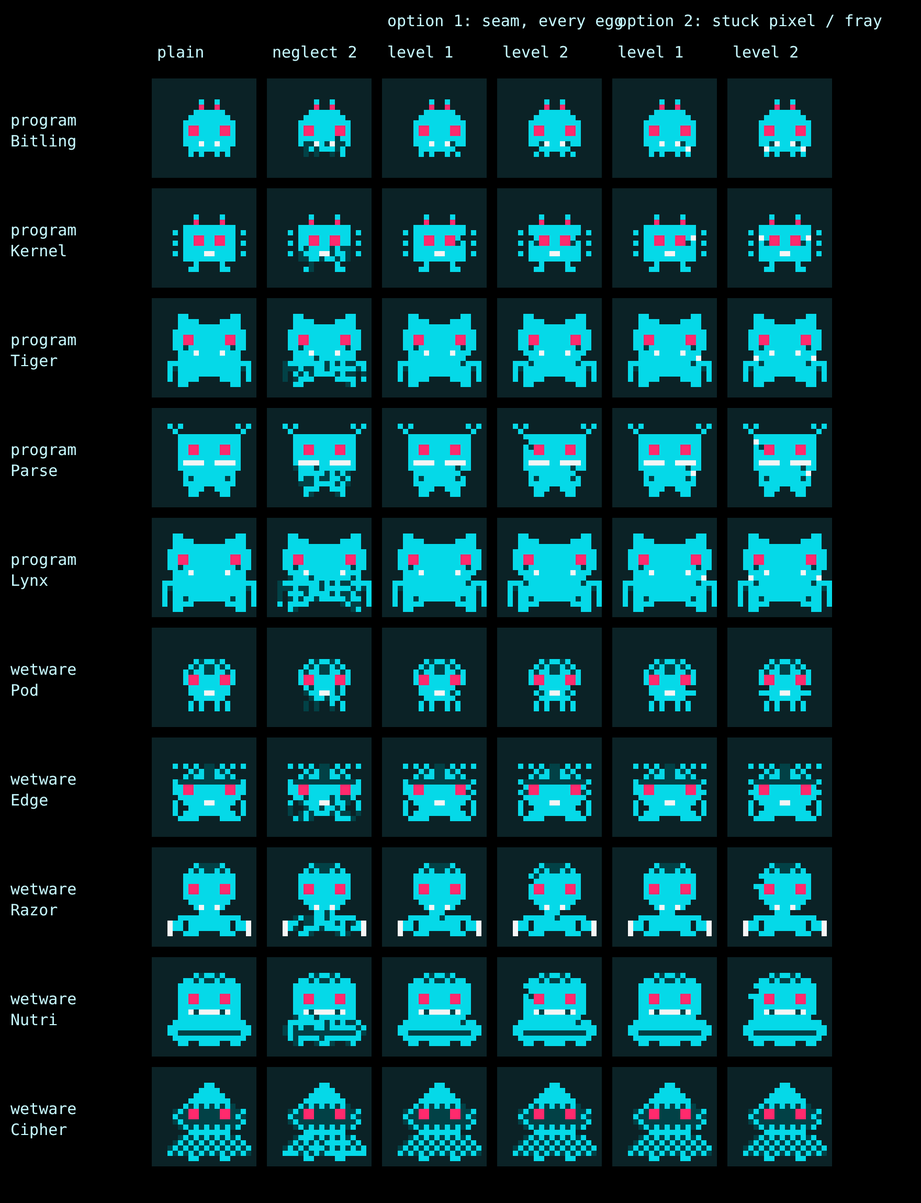
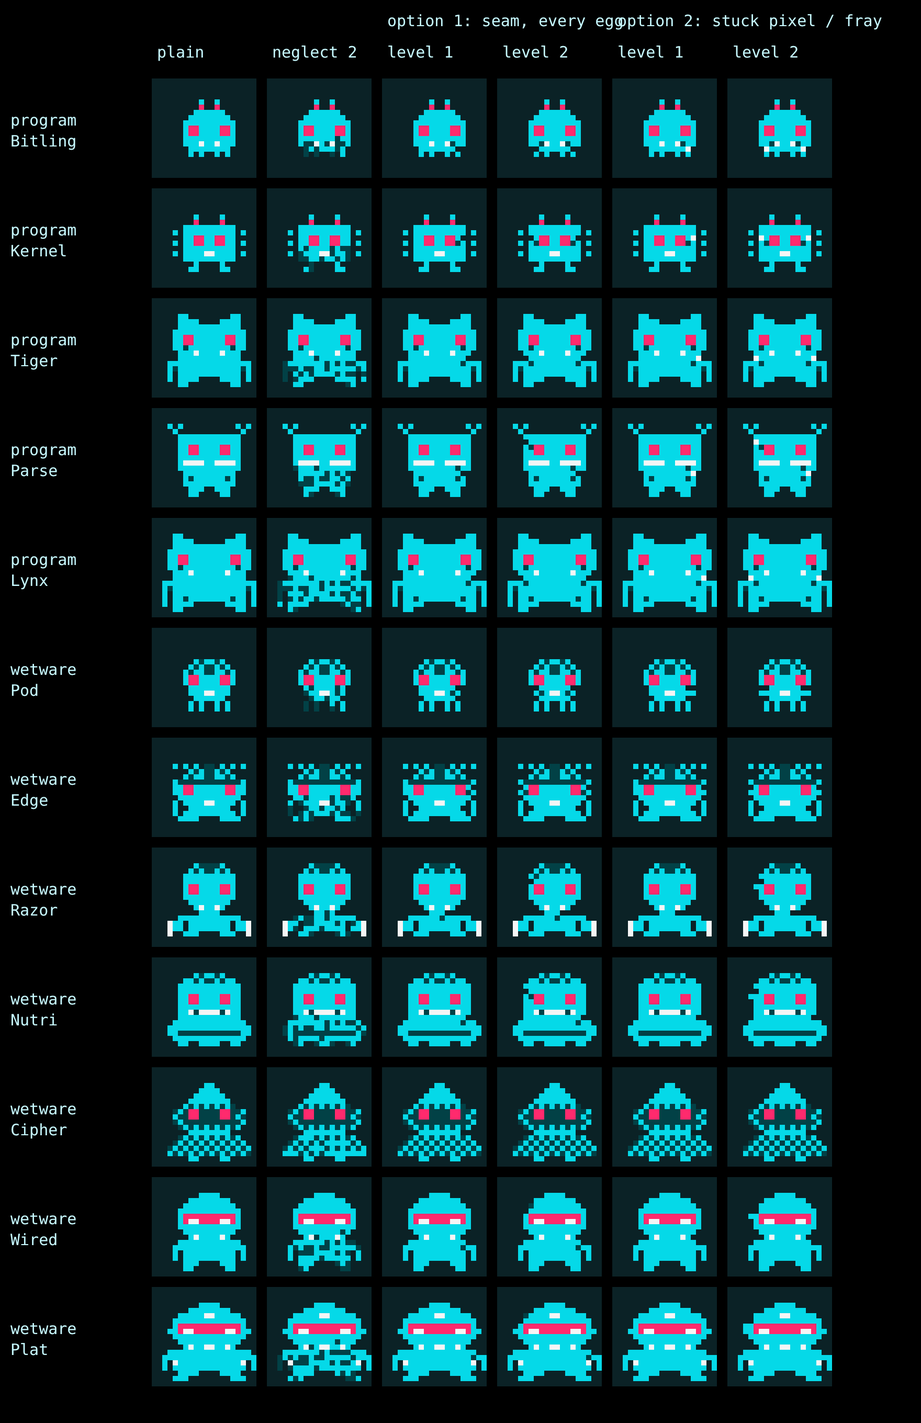
Netling 2.0: the seam is the strain mark on every egg (decided); Wired and Plat pinned by hand
seams.js places the seam on all 66 forms; Wired and its elder Plat have no straight wall the rule accepts, so
OVERRIDES pins them; the hidden forms the rule misses (Shell, Blank, Cipher) show none. A test covers every
Program and Wetware form; the review render adds Wired and Plat. Docs record the decision.

Claude-Session: https://claude.ai/code/session_01Cs8Tn62A5tSs3mb1RKkHnQ

diff --git a/prototype/netling2/seams.test.js b/prototype/netling2/seams.test.js
@@ -3,6 +3,8 @@ import { test } from 'node:test';
 import assert from 'node:assert/strict';
 import './ready.js'; // first: registers the forms before src/sim.js can load src/accessories.js (see ready.js)
 import { forms } from './models.js';
+import { programForms } from './program-models.js';
+import { wetwareForms } from './wetware-models.js';
 import { placeSeams, seams, seamCells } from './seams.js';
 import { METRONOME_ART, METRONOME_SIZE, metronomeFrame } from './metronome-art.js';
 import { metronome } from './metronome.js';
@@ -60,4 +62,19 @@ test('the Metronome art: three 5x8 frames, the case fixed, only the rod and weig
   }
   assert.ok(METRONOME_ART[-1][0].startsWith('o') && METRONOME_ART[1][0].endsWith('o'), 'left is left, right is right');
   for (const level of [-2, -1, 0, 1, 2]) for (const time of [0, 1234, 7000, 99999]) assert.ok(metronomeFrame(metronome({ level, time }).pos), `level ${level}`);
+});
+
+test('the strain mark is the seam on every egg: every Program and Wetware form gets two seams except the hidden forms the rule misses', () => {
+  const allowedMissing = new Set(['programTeenHidden', 'wetwareAdultHidden', 'wetwareElderHidden']);
+  for (const f of [...Object.values(programForms()), ...Object.values(wetwareForms())]) {
+    const [s1, s2] = placeSeams(f);
+    if (allowedMissing.has(f.id)) continue;
+    assert.ok(s1 && s2, `${f.id}: two seams`);
+    for (const s of [s1, s2]) {
+      assert.equal(f.a[s.cut[1]][s.cut[0]], '#', `${f.id}: the cut is a body cell`);
+      assert.equal(f.a[s.dim[1]][s.dim[0]], '#', `${f.id}: the dim cell is a body cell`);
+      assert.equal(f.a[s.cut[1]], f.b[s.cut[1]], `${f.id}: the cut row is the same in both frames`);
+      assert.equal(f.a[s.dim[1]], f.b[s.dim[1]], `${f.id}: the dim row is the same in both frames`);
+    }
+  }
 });

diff --git a/prototype/netling2/seams.js b/prototype/netling2/seams.js
@@ -1,4 +1,4 @@
-// Iron's wear seams (docs/NETLING_2_CARE_DRAFTS.md, Iron wear): a small static seam on one edge of the sprite once wear passes the line,
+// Wear and strain seams (docs/NETLING_2_CARE_DRAFTS.md, Iron wear; and Overuse and owner strain: the same mark on every egg): a small static seam on one edge of the sprite once wear passes the line,
 // a second at heavy wear, and they go one at a time as wear fades. DRAFT for review, not decided art. Not shipped.
 //
 // A seam is a split in the casing: the outline cell is cut out ('.') and the body cell diagonally inward goes dim ('x'). Rust (neglect.js)
@@ -11,7 +11,14 @@
 //
 // seams(rows, cells) -> rows with those cells applied; SEAMS[id] = [seam1, seam2], each { cut: [x, y], dim: [x, y] }.
 
-export const OVERRIDES = {};
+// Strain marks use the seam on every egg (maintainer, 2026-10-09: Iron's wear, Program's and Wetware's strain alike). Wired and its elder Plat have
+// no straight wall the rule accepts (a rounded head and torso, arms held apart), so they are pinned here: seam 1 on the right shoulder, seam 2
+// on the left of the head. The hidden forms the rule misses (Program's Shell, Wetware's Blank and Cipher) are left without seams (maintainer:
+// hidden forms may break the rules).
+export const OVERRIDES = {
+  wetwareAdultDodgeCorp: [{ cut: [13, 9], dim: [12, 10] }, { cut: [2, 3], dim: [3, 2] }],
+  wetwareElderDodgeCorp: [{ cut: [16, 9], dim: [15, 10] }, { cut: [2, 3], dim: [3, 2] }],
+};
 
 const plain = (rows, x, y) => rows[y]?.[x] === '#';
 

diff --git a/prototype/netling2/strain-marks-preview.html b/prototype/netling2/strain-marks-preview.html
@@ -17,7 +17,7 @@ import { drawSprite, paletteColors } from '../../src/sprites.js';
 import { PALETTES } from '../../src/sim.js';
 
 const LCD = '#0b2226';
-const PICK = { program: ['programBaby', 'programTeenCorp', 'programAdultBreachCorp', 'programAdultTuneCorp', 'programElderBreachCorp'], wetware: ['wetwareBaby', 'wetwareTeenStreet', 'wetwareAdultBreachCorp', 'wetwareAdultFeastCorp', 'wetwareElderHidden'] };
+const PICK = { program: ['programBaby', 'programTeenCorp', 'programAdultBreachCorp', 'programAdultTuneCorp', 'programElderBreachCorp'], wetware: ['wetwareBaby', 'wetwareTeenStreet', 'wetwareAdultBreachCorp', 'wetwareAdultFeastCorp', 'wetwareElderHidden', 'wetwareAdultDodgeCorp', 'wetwareElderDodgeCorp'] };
 const SETS = { program: programForms(), wetware: wetwareForms() };
 const COLS = ['plain', 'neglect 2', 'level 1', 'level 2', 'level 1', 'level 2'];
 

diff --git a/docs/NETLING_2_SPRITES.md b/docs/NETLING_2_SPRITES.md
@@ -6,7 +6,7 @@ Read this first for any sprite work. It is the current state only. The log of ev
 
 - All three eggs have all 22 forms drawn, in `prototype/netling2/` (not shipped, not in `sw.js`, not in `npm test`): baby, 3 teens (corp, street, hidden), 9 adults (4 roles x corp/street, plus hidden), 9 elders (one per adult).
 - Authored in full, not composed (maintainer). Everything is a first draft judged only from screenshots; **nothing has been seen on a device or in the real renderer.** `npm run smoke` has not been run.
-- Verified by machine: `npm test` 503 pass, `npm run proto:test` 334 pass (sprite, care and bug layers on all 66 forms, dead X mirroring, tell and temper pass, visit rules, gallery maker, voice, metronome, simulator and netrun rules, state marks, clinic node, state lines and hints, tutorial text), the unchanged 1.0 sprite audit on each egg (re-run after the elder redraws and the asleep marks: idle clips 47 to 44 and three close elder pairs gone; new flags, for review: Munch's elder against its adult 0.85 and Thrash's 0.82, above 1.0's 0.77 to 0.82, and a bandage on 1 of 9 mouth cells of Munch's elder; Next phase, item 4), review page and three galleries load in headless Chromium.
+- Verified by machine: `npm test` 503 pass, `npm run proto:test` 335 pass (sprite, care and bug layers on all 66 forms, dead X mirroring, tell and temper pass, visit rules, gallery maker, voice, metronome, simulator and netrun rules, state marks, clinic node, state lines and hints, tutorial text), the unchanged 1.0 sprite audit on each egg (re-run after the elder redraws and the asleep marks: idle clips 47 to 44 and three close elder pairs gone; new flags, for review: Munch's elder against its adult 0.85 and Thrash's 0.82, above 1.0's 0.77 to 0.82, and a bandage on 1 of 9 mouth cells of Munch's elder; Next phase, item 4), review page and three galleries load in headless Chromium.
 - **State marks (new, overlays, not sprite art):** Overclock wisps above the body, Overdrive sparks on rows h+1 and h+2 below the feet, Overlink dots three columns out at the sides, all one pixel, 400 ms steps, still in calm mode (`prototype/netling2/marks.js`, colors in `mark-colors.mjs`, preview `docs/netling2-prototypes/state-mark-colors.png`). They stay clear of Iron's drift (two columns) and settle (one row). Iron's wear seams (a small static mark on a sprite edge, one per wear level) are now **drafted for review** on all 22 Iron forms (`seams.js`; Next phase, item 3). Not seen on a real sprite or a device.
 - Wearables: all 41 1.0 wearables are placed by the game's own code on every form; none leave the screen (except the 1 px holologo clip that 1.0's own 15 row forms have) and none move between frames. Chipped's 41 were checked by eye this round (`docs/netling2-prototypes/shots/chipped-wearables.png`).
 
@@ -73,7 +73,7 @@ State: items 2 and 3 of the old list (care and bug effects, the temper pass) are
 1. **Open decision: Iron's unsteady drift and Program's strong hop are still masked by 1.0's idle.** The steady Iron hold (decided) fixed the steady end; the unsteady drift (one or two columns) is smaller than the wander and Program's hop (one row, 8% of slots) is lost the same way. Extend the hold, give the idle a jitter for unsteady netlings, or accept that the unsteady end is sometimes lost (unmeasured). See Temper pass notes below.
 2. **Wire the layers into a renderer.** Nothing of 2.0 is built in the real renderer: `idleClock`, `visitLayers`, `tellPose`, the neglect and bug layers, the state marks and the visit rule (marks are covered by `visitLayers` but nothing calls it for them yet) are pure functions with tests, drawn only by the review page and the galleries' `layers` section.
 2a. **Hidden elders' echo: done (decided, maintainer).** Cipher (Wetware) has a ghost dub; Program's Whisper now has a **fork lag** (a dim copy trails out to the right, holds, and is reaped) and Iron's Init a **ratchet trail** (copies stack out two cells at a time, hold, and clear together: rigid, whole-cell steps), registered as `motion` on `programElderHidden` and `ironElderHidden` (`echo-motion.js`; 12 steps of 400 ms, reduced motion parks the echo, the registered frames are untouched, the result is 26 and 30 columns wide against 14 and 18, and the figure stays whole on top). Tests: `echo.test.js` (8). The other options are kept in `echo-motion.js` (`PROGRAM_OPTIONS`, `IRON_OPTIONS`) and drawn by `echo-preview.html` (picture: `docs/netling2-prototypes/echo-options.png`). **The knob for faintness is `ECHO` in `echo-motion.js`**: `cell: 'x'` is the shared dim cell; `cell: '#'` draws the echo in the body colour and `pattern: 'checker'` keeps every other cell, so a brighter, sparser echo is one edit. Not yet seen across the palettes, tints, screens and wearables; the maintainer will judge faintness after those tests. At the far end of 1.0's idle wander the echo's padding or a few echo cells can clip at the screen edge (the figure itself never does; `temper-pass.test.js` checks the figure).
-3. **Draw what is only specified:** Iron's wear seams and the Metronome prop are **drafted for review** (`seams.js`, `metronome-art.js`, 4 tests in `seams.test.js`; render in `docs/netling2-prototypes/shots/iron-seams-metronome.png`): a seam is a cut outline cell and a dim cell diagonally inward, placed by rule on all 22 forms (seam 1 on the right edge of the torso, seam 2 on the left of the head, a notch in a straight wall, rows the A and B frames share, plain body only; the outer edge beside the eyes as a last resort, used by Thrash and its elder), with an empty `OVERRIDES` table for hand placement after review; the Metronome is a brown case with a dark dial window, a light rod and a yellow weight, three frames that differ only in the rod rows, shown at the right of the floor. Not wired into any renderer, not seen on a device, colours are the review page's, not decided. Still to draw: the idle actions (scan, neck, stretch, ...) as poses or status lines, Blank's motion layer in the real renderer and with wearables, the Laughing Man ring.
+3. **Draw what is only specified:** the seam is also the strain mark on Program and Wetware (decided, maintainer, 2026-10-09: one mark on every egg; Wired and Plat pinned in `OVERRIDES`, Shell, Blank and Cipher without one; render `docs/netling2-prototypes/shots/strain-marks-options.png`). Iron's wear seams and the Metronome prop are **drafted for review** (`seams.js`, `metronome-art.js`, 4 tests in `seams.test.js`; render in `docs/netling2-prototypes/shots/iron-seams-metronome.png`): a seam is a cut outline cell and a dim cell diagonally inward, placed by rule on all 22 forms (seam 1 on the right edge of the torso, seam 2 on the left of the head, a notch in a straight wall, rows the A and B frames share, plain body only; the outer edge beside the eyes as a last resort, used by Thrash and its elder), with an empty `OVERRIDES` table for hand placement after review; the Metronome is a brown case with a dark dial window, a light rod and a yellow weight, three frames that differ only in the rod rows, shown at the right of the floor. Not wired into any renderer, not seen on a device, colours are the review page's, not decided. Still to draw: the idle actions (scan, neck, stretch, ...) as poses or status lines, Blank's motion layer in the real renderer and with wearables, the Laughing Man ring.
 4. **Smaller items (round two done; review page `docs/netling2-prototypes/shots/asleep-marks-and-elders.png`, wearables on Chipped `chipped-wearables.png`):** Chipped's wearables: all 41 checked on the adult and elder, eyewear finds both eyes, nothing else to fix (the holologo is the shared open decision); Plat or a hand-drawn Wired elder (a hand-drawn one overlaps Plat 0.96, so Plat is in); asleep chest marks **changed**: Iron's queue and Program's cursor are now dim fill from the row under the neck (accent under the mouth read as extra eyes; a highlight version read as a second mouth or teeth; the render shows all three); dead X rounding was already fixed (`dead-eyes.test.js`); thin elder margins **redrawn** (margin over the closest other adult, scaled): Gronk 0.063 to 0.144, Ping 0.017 to 0.081, Munch 0.032 to 0.072, Thrash 0.037 to 0.084, Parse 0.028 to 0.087, then Bamf 0.042 to 0.070 (no dome over the head) and Mouse 0.038 to 0.074 (both ears whole, a tag on the right one); tests hold every Iron margin at 0.07 or more and every Program one at 0.05 or more (Tiger is now the thinnest at 0.053); side by side in `elder-redraws.png` and `asleep-marks-and-elders.png`; for review: Munch's elder overlaps its adult 0.85 raw (1.0's mainframes 0.77 to 0.82), a bandage clips 1 of its 9 mouth cells, and Thrash's spikes and hem sit half a pixel right of centre; the Wetware shade dip **reduced to 20%** (`SHADE_DIP` in `tell.js`): at 25% the neon palette's body fell to 2.95:1 against the screen, under the 3:1 asked of graphics; at 20% every palette keeps 3.2:1 or more on both screens (a test checks all six); wearables still do not shade with the body (as 1.0's Ghost); wearables the tell clips at the extremes: **Splat's and Brick's seven fixed** by `driftWithin` in `tell.js` (at the edge of 1.0's idle wander Iron's drift goes inward, same size, so it never passes where the idle already goes; tested); the ten holologo pairs on Program's teens and elders remain, the open decision below.
 5. **Device and real-renderer check of everything above:** flicker, legibility at small size, the layers on a phone. Nothing has been seen on a device.
 6. **Maintainer review (not an AI task), last.** Program and Wetware in `gallery-program.html` and `gallery-wetware.html` and on the review page, for oddities. Known suspects: Program's Gobble and Worm (weakest reads), the street teen (six passes), Spoof's half mask, Tiger, Parse and Snarf (4 cell frame changes, near-frozen); Wetware's Chipped (eyewear now finds both eyes: `ready.js` adds the lens columns, tested in `wetware.test.js`), Leech's one cell tube, Solo against Nutri (0.81), Blank's shimmer and hood, and the nine Wetware elders (first drafts, mostly wider adults with one feature). **New to review:** the `layers` section of each gallery (neglect 1 and 2, bugs 1 to 5, the combinations and the temper tell at five levels, with a 1.0 idle and the visit column): is rust readable on the babies and teens (rust now starts under the eyes with a larger share), do five bugs on a baby still read as the same netling (about a quarter of its cells move), does the shared neglect skin do for all three eggs (maintainer chose one skin, not a skin per egg), and how the Program Shell, Wetware Blank and Cipher read with brightened patches instead of rust. Record findings in the sketch handoff, then fix.

diff --git a/docs/NETLING_2_SKETCH.md b/docs/NETLING_2_SKETCH.md
@@ -32,7 +32,7 @@ Written for an AI picking up the work. Sprite work has its own handoff: **[NETLI
 
 **Document map.** This file: decisions, architecture, measured numbers, open questions. [NETLING_2_SPRITES.md](NETLING_2_SPRITES.md): sprite handoff; [NETLING_2_SPRITES_HISTORY.md](NETLING_2_SPRITES_HISTORY.md): its archive (drafts, rejected options, measurements). [NETLING_2_CODEX_DRAFTS.md](NETLING_2_CODEX_DRAFTS.md): all page text and temper hints. [NETLING_2_CARE_DRAFTS.md](NETLING_2_CARE_DRAFTS.md): per-egg meter, button, event, item and alert wording (first pass, step 1). [NETLING_2_NETRUN_DRAFTS.md](NETLING_2_NETRUN_DRAFTS.md): netrun drafts (adult abilities, elder upgrades, egg differences in a run, anomalies; proposals, step 2). [NETLING_2_EGG_PRESSURES.md](NETLING_2_EGG_PRESSURES.md): the per-egg pressure design (states, brake, numbers, play styles). [NETLING_2_PERKS_TRAITS_DRAFTS.md](NETLING_2_PERKS_TRAITS_DRAFTS.md): form perks, lineage traits, keepsakes and two new items (decided, first balance pass). [netling2-prototypes/README.md](netling2-prototypes/README.md): rule-prototype patch and drivers behind the figures. [SECOND_EGG_IDEAS.md](SECOND_EGG_IDEAS.md): source vocabulary (Jargon, CP2020, FDA) and unused ideas; reference only.
 
-**Verified and not.** `npm test` (503) and `npm run proto:test` (334) pass at the last run (the 2.0 netrun rules have their own file, `prototype/netling2/nr2.test.js`, 54 tests; the sprite layers, visits, the gallery maker and the tutorial text have theirs); the prototype pages loaded in headless Chromium and the 1.0 sprite audit ran on each egg earlier; `npm run balance` at 1000 lives matches 1.0's committed baseline. Not run: `npm run smoke`, any device or phone check, any playtest; the new sweeps are bots with one skill number (Foresight and the challenges also assume an uneven per-game skill, `spread` 0.2). The 2.0 simulator is a model with 1.0's scripted players: its figures are starting values, and a human's habits can differ a lot (see the README for each limit). No page text, tone shape, care wording or prop has been playtested.
+**Verified and not.** `npm test` (503) and `npm run proto:test` (335) pass at the last run (the 2.0 netrun rules have their own file, `prototype/netling2/nr2.test.js`, 54 tests; the sprite layers, visits, the gallery maker and the tutorial text have theirs); the prototype pages loaded in headless Chromium and the 1.0 sprite audit ran on each egg earlier; `npm run balance` at 1000 lives matches 1.0's committed baseline. Not run: `npm run smoke`, any device or phone check, any playtest; the new sweeps are bots with one skill number (Foresight and the challenges also assume an uneven per-game skill, `spread` 0.2). The 2.0 simulator is a model with 1.0's scripted players: its figures are starting values, and a human's habits can differ a lot (see the README for each limit). No page text, tone shape, care wording or prop has been playtested.
 
 **Working agreements.** Avoid emojis and em dashes. Measure before claiming a number and say what a measurement does not cover (the 1.0 overlap score misled for palette marks and for grown elders). Say plainly what was not run or verified. Ask clarifying questions before ambiguous or non-trivial steps; when a form is contested, render options side by side first (the maintainer reviews from screenshots). Record each decision here as it is made, marked Decided or proposal. Keep in-game Wetware text to plain words (see The eggs). Do not open a pull request unless asked. **This branch is not under the 1.0 soft freeze** (maintainer): 1.0 code may change where asked, minimally, with tests, regenerating what depends on it (`node tools/wearable-colors.mjs --write` after palette or sprite changes), and saying so. The prototype lives only in `prototype/netling2/`. Work is on branch `claude/game-egg-differentiation-xkl6x2`; at handoff the session branch `ccr-d71db475-tnfy9b` is kept identical to it. Netrun and simulator numbers: run the sweeps, do not quote the older tables without checking their notes (several were measured before the bug effects were strengthened).
 

diff --git a/docs/NETLING_2_CARE_DRAFTS.md b/docs/NETLING_2_CARE_DRAFTS.md
@@ -351,7 +351,7 @@ Wording for the overuse rules (design: [NETLING_2_EGG_PRESSURES.md](NETLING_2_EG
 | Owner strain past the warning line | > swap is filling up. it is thrashing. | > tolerances are slipping. (wear, existing) | > it is jittery. too much, too close. |
 | Owner strain back under the line | > swap clearing. | > back within spec. (existing) | > it is calming down. |
 
-**Readout words** (owner's egg only, while strain is past the line, as Iron's " · worn"): Program " · thrashing", Wetware " · frayed". Screen-reader values match. Proposal: no sprite mark for either (Iron's seams are its only strain mark); if one is wanted, a static mark like the seams keeps the flash budget.
+**Readout words** (owner's egg only, while strain is past the line, as Iron's " · worn"): Program " · thrashing", Wetware " · frayed". Screen-reader values match. **Sprite mark (decided, maintainer, 2026-10-09): the seam on every egg**, the same mark as Iron's wear (one seam past the warning line, a second at heavy strain), so the readout word carries each egg's flavor. Per-egg marks (a stuck pixel for Program, a fray for Wetware) were rendered and not chosen: the stuck pixel reads as a tooth or highlight, the fray changes the outline (`docs/netling2-prototypes/shots/strain-marks-options.png`, `prototype/netling2/strain-marks-preview.html`). Placement is `seams.js`'s rule on all 66 forms, with Wired and Plat pinned by hand; the hidden forms the rule misses (Shell, Blank, Cipher) show no seam (maintainer: hidden forms may break the rules).
 
 **Titles (hover):** Program "Thrashing: feeding it past full wears it down. Rest to recover." Wetware "Frayed: playing past its limit wears it down. Rest to recover." (Iron's: "Worn: running outside its range wears it down. Rest to recover.")
 
@@ -359,6 +359,6 @@ Wording for the overuse rules (design: [NETLING_2_EGG_PRESSURES.md](NETLING_2_EG
 
 **Field manual** (qualitative): on every egg, one line: "Feeding it past full, playing while Sync is nearly full or playing while hot each cost a little Integrity. Past full it takes only a few more, and the last spoils into the cache." On the owner's egg its strain line: Program "Feed it past full too often and it thrashes: infections come easier and its buffer overflows more, until it rests."; Wetware "Play past its limit too often and it frays: infections come easier and it burns through food, until it rests."
 
-**Reviewed with the maintainer (2026-10-09).** Fixed: Iron's overfeed no longer says "surge" (Iron's LINE SURGE event; the word was dropped as a state name for the same reason); one line a game inside Overlink and one line for the third overfeed; Wetware's overheat line says the game was played; the field manual is one accurate line; Iron's Overdrive end is "> power back to rating." so "> back within spec." means only that wear has recovered (Pressure cues). Decided: Program's three basic lines all end "cost it" and Wetware's all end "that hurt" (one repeated signal per egg; Wetware's overfeed was "its stomach hurts"). Open: a sprite mark for Program's and Wetware's strains.
+**Reviewed with the maintainer (2026-10-09).** Fixed: Iron's overfeed no longer says "surge" (Iron's LINE SURGE event; the word was dropped as a state name for the same reason); one line a game inside Overlink and one line for the third overfeed; Wetware's overheat line says the game was played; the field manual is one accurate line; Iron's Overdrive end is "> power back to rating." so "> back within spec." means only that wear has recovered (Pressure cues). Decided: Program's three basic lines all end "cost it" and Wetware's all end "that hurt" (one repeated signal per egg; Wetware's overfeed was "its stomach hurts"). The strain mark is the seam on every egg (decided; Readout words, below).
 
 Open: "cyberpsychosis" is the maintainer's theme for Wetware's strain; in-game Wetware text stays plain (The eggs), so the word itself does not appear; "frayed" and "jittery" carry it. Program's "out of swap" likewise shows as "thrashing".

diff --git a/docs/NETLING_2_BASELINE_AND_STAGE_CARE.md b/docs/NETLING_2_BASELINE_AND_STAGE_CARE.md
@@ -89,5 +89,5 @@ Draft sections 9 and 10. `STANDINGGAIN` multiplies every source of Standing; on 
 
 - The container restarts when idle and kills background jobs (it happened several times). Prefer `setsid nohup`, keep jobs resumable, and wait in the foreground with `timeout 590 tail --pid=<pid> -f /dev/null` (find the real pid with `pgrep -af`; a launching shell's pid exits at once). The run log is overwritten if two runners write it at the same time.
 - Keep earlier results under their own names when a rule changes (`balance-brake55-*`, `balance-brake40-lock24-*`, `results/superseded/`), so a table can always be traced to the rules that made it.
-- Tools added: `STAGE` in `sim/sim.js` and `stage.test.js`, `sim/notification-count.mjs`, `sim/map-metrics.mjs`, `sim/netrun/map2.js`, `sim/program-perk-sweep.mjs`, `sim/program-bot-sweep.mjs`, `sim/break-consequence-sweep.mjs`, `PROGBOT=avoid|watch` in `sim/balance.mjs`. Tests: `sides.test.js` (the break), `statebot.test.js` (the watch bots), `overuse.test.js` (OVERUSE; 334 prototype tests pass), `bugcost.test.js`.
+- Tools added: `STAGE` in `sim/sim.js` and `stage.test.js`, `sim/notification-count.mjs`, `sim/map-metrics.mjs`, `sim/netrun/map2.js`, `sim/program-perk-sweep.mjs`, `sim/program-bot-sweep.mjs`, `sim/break-consequence-sweep.mjs`, `PROGBOT=avoid|watch` in `sim/balance.mjs`. Tests: `sides.test.js` (the break), `statebot.test.js` (the watch bots), `overuse.test.js` (OVERUSE; 335 prototype tests pass), `bugcost.test.js`.
 - Test notes: two of the break's own tests were first written wrongly (one mixed up Overdrive's and Overlink's breaks, one ignored the one-minute lag after a sudden Integrity hit); both are fixed and the reasons are in the test comments.

diff --git a/CLAUDE.md b/CLAUDE.md
@@ -20,7 +20,7 @@ npm run balance   # lifetime simulations per player archetype (JSON=1, LIVES=n, 
 npm run serve     # http://localhost:5174
 
 # Netling 2.0 sprite prototype (prototype/netling2/, not shipped; see docs/NETLING_2_SPRITES.md)
-npm run proto:test     # its tests (334)
+npm run proto:test     # its tests (335)
 npm run proto:temper   # the temper tell against 1.0's idle and wearables (measurements, not rules)
 npm run proto:balance  # the 2.0 core-rules simulator (prototype/netling2/sim/): lifetime simulations per archetype, same settings as npm run balance plus CLEAR, PREF, PREFBOT, BUGS
 node prototype/netling2/baseline/run-all.mjs   # the 2.0 simulator baseline: every sweep at 1000 lives into prototype/netling2/baseline/results (resumable; read its README first; never import the file, importing runs it)
